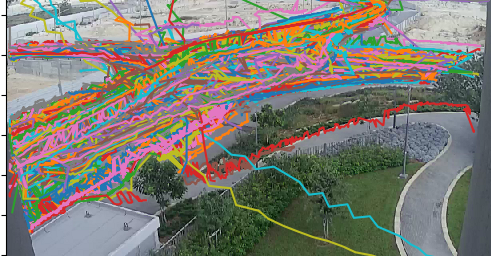
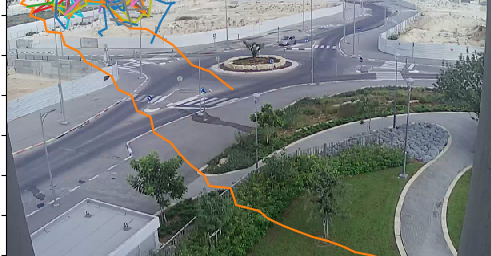
no data message

diff --git a/controllerg.py b/controllerg.py
@@ -92,6 +92,7 @@ class Controller:
             df = self.filter_model.filter_by_areas(areas)
         if len(df) ==0:
             self.view.draw_image(self.image)
+            self.view.status_update("no data applies")
         self.view.plot_image_and_routes(df)
 
     def run(self):
